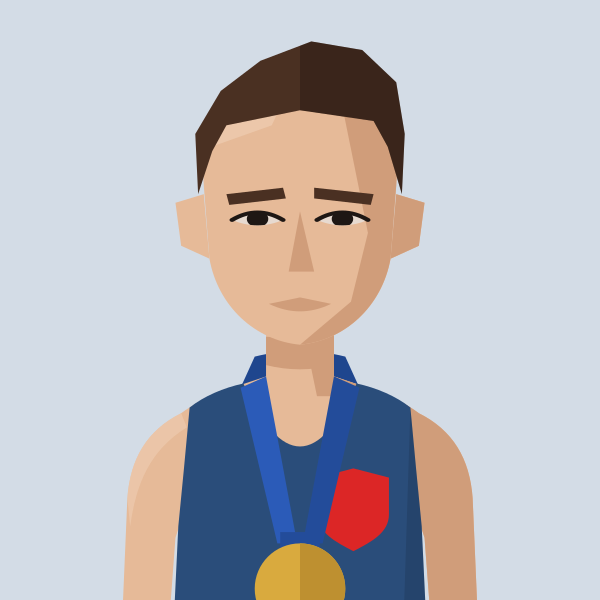
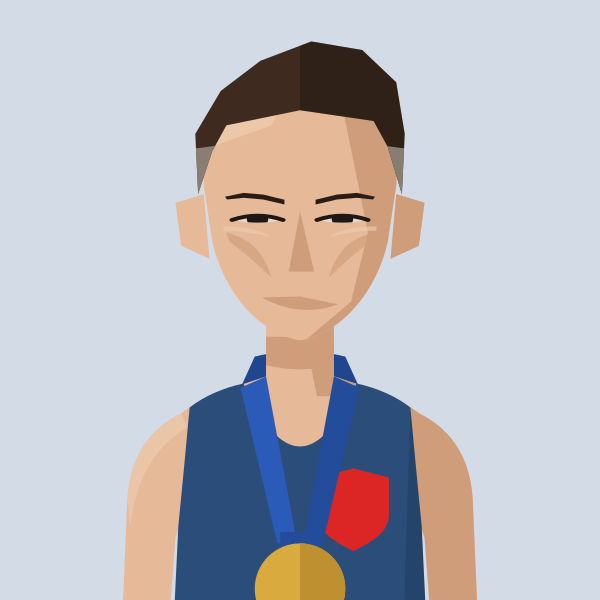
Portrait: Alex Yee redrawn (faded quiff, cheekbones, thin arched brows, lopsided smile, medal kept)
Claude-Session: https://claude.ai/code/session_01MgmDWhFqnSSnP4iBLKXUZC

diff --git a/files/index.html b/files/index.html
@@ -757,7 +757,7 @@ const portraitFile=(name,club)=>{const k=normalizeNameForCompare(name||'').repla
 const portraitClubOf=(name,clubs)=>{for(const c of clubs||[]){if(c&&portraitFile(name,c))return c;}return null;}; /* first of these clubs we have a portrait for */
 // Athlete header figure: superstar portrait if we have one, else a grey runner in the club vest, else the plain vest icon
 // Changes whenever any portrait changes (set by tools/build_og.py), so browsers fetch fresh images instead of old cached ones
-const PORTRAIT_V='5461c4f5';const PORTRAIT_WOMEN='abbey-brooke,abbie-bulbulian,adele-prince,aimee-hargreaves,aisling-ahern,alex-brown,alex-gandee,alex-marginean,alex-miller,alexa-parker,alexandra-barbour,alice-braham,alice-bridger-morales,alice-crane,alice-martin,alice-reed,alice-smith,alison-purnell,alison-thomson,amelia-pettitt,amy-clements,andrea-barber,anika-schwarze-chintapatla,anna-garnier,anna-garnier-hw,anna-sharp,annabel-hobday,annabelle-hadlow,anne-hegvold,annmarie-seymour,ava-mcandie,becky-briggs,bethan-goddard,bethanie-murray,bethany-brown,betsy-griffiths,billie-mcclosky,camilla-barden,caoimhe-nic-fhogartaigh,carolyne-baxter,catherine-bryson,catherine-eastham,catherine-kandie,cathy-ansell,charlotte-griffiths,chloe-beckett,chloe-tighe,chrissie-wellington,claire-grima,clara-pettit,clare-elms,clare-pauzers,dillan-quinn,dorchie-cockerell,eilidh-hide,elinor-skinner,eliza-grant,elizabeth-apsley,elizabeth-stavreski,ella-fennelly,ella-king-powrie,ella-may-hards,ella-newton,ellen-weir,ellie-brown,ellie-freeden,eloise-bull,emilie-arnoux,emily-barrett,emily-bradley,emily-lowery,emily-robbins,emma-gordon,emma-howsham,emma-lord,emma-rowland,estle-viljoen,evie-warren,felicity-cole,felicity-harrison,felicity-hayward,fi-maddocks,fiona-de-mauny,florence-wiggins,gabby-collison,gabriel-reynolds,gemma-newport,genevieve-blanch,georgia-curry,georgie-bruinvels,georgie-fenn,georgie-furze,georgie-grgec,gina-galbraith,grace-leyland,grace-richardson,hannah-edwards,hannah-english,heather-statham,heather-statham-cc,helena-corbin,helena-keenan,holly-nixon,holly-pan,imogen-mackie,imogen-wolsey,iona-cousland,isabel-bradley,isabel-brinsden,isabelle-pickett,isobel-hodder,jennifer-nandi,jennifer-smith,jess-reed,jess-saunders,jess-winfield,jessica-davies,jessica-lowe,jodie-favell,josephine-rhodes,julia-bleasdale,julia-wedmore,juliet-hodder,jurgita-levertaviciute,justine-lynch,karen-fenner,karen-xiang,karina-box,kate-axford,kate-williams,kathy-sharpe,katie-ellen-french,katie-good,katie-snowden,katy-hedgethorne,kitty-shepherd-cross,kristina-popadich,lara-bromilow,lara-mangan,laura-goodson,laura-miles,lauren-major,lea-adamson,lily-newton,lisa-bailey,lisa-thomas,lisa-thomas-hw,lizzie-goldie-scot,louise-cooper,lucy-jones,lucy-macalister,lucy-peters,lydia-blackmore,lydia-gallyer-barnett,maddie-mastrolonardo,maddy-whitman,maeve-kenny,margaret-coogan,martina-conner,mary-james,mary-setyabule,matilde-lomba,megan-gildea,mel-wilkins,mhairi-hall,mimi-corden-lloyd,molly-oconnor,molly-smith,monika-gajek,naomi-lenane,natalie-beadle,natalie-seymour,natasha-lodge,niamh-thompson,nicky-hayes,nicola-cartlidge,nicola-douglas,nikki-sturzaker,olivia-papaioannou,olivia-stillman,orna-mcginley,pamela-mchutchon,patricia-walker,patrizia-gnoato,penny-oliver,rachel-brown,rebecca-barrow,rebekah-edgar,ruby-carter,ruby-whyte-wilding,ruby-woolfe,sally-urquhart,sam-whiting,samantha-munday,sarah-astin,sarah-dewhirst,sarah-grover,sarah-hanley,sarah-holt,sarah-murphy,sarah-palmer,sarah-palmer-ran,sarah-riceman,sarah-young,saron-haileselase,serena-carter,sophie-cowper,sophie-harris,sophie-hicks,sophie-tooley,stacey-ward,steph-hewitt,steph-mccall,steph-mccall-cc,steph-mccall-slh,steph-mitchell,suzanne-swaine,suze-spalding,suzie-harvey,suzy-whatmough,teresa-murphy,tilly-heaton,tilly-heaton-bel,tish-jones,vic-cartwright,vicky-clarke,victoria-barthelmess,victoria-buck,vikki-filsell,zoe-doyle,zoe-macdonald,zuzana-nemeckova';const PORTRAIT_MEN='aaron-wilson,abdulla-elsadig,adam-leane,adrian-major,adrien-royer,alan-black,alan-mead,alex-brecker,alex-bruce-littlewood,alex-gutteridge,alex-harris,alex-howard,alex-janiaud,alex-lee,alex-lennon,alex-mills,alex-milne,alex-morales,alex-robinson,alex-yee,alexander-marks,amittai-ben-israel,andrew-cumine,andrew-green,andrew-penney,andrew-perfect,andrew-simms,andrew-warburton,andrius-jaksevicius,andy-coley-maud,andy-coley-maud-cc,andy-fyfe,andy-north,andy-paton,andy-weir,angus-butler,angus-lamb,anisse-ismaili,arlo-ludewick,arne-dumez,arthur-peel,ashley-goncalves,barnaby-day,barry-collins,barry-sawyer,ben-clarke,ben-harding,ben-hurley,ben-ireland,ben-millar,ben-paviour,ben-pearce,ben-racle,ben-revill,ben-reynolds,ben-scott,ben-toomer,benedict-whitby,benjamin-hilson,bernie-ford,bill-kerr,bill-weller,bill-weller-wal,bob-harrison,bob-holt,bob-lunnon,bob-rayman,bob-smith,bradley-courtney-pinn,brandon-dewar,brian-gorman,brian-wilder,caleb-hathaway,callum-stewart,cameron-dockerill,cameron-reilly,carl-delaney,charles-herrington,charlie-dabbs,charlie-dickinson,charlie-eastaugh,charlie-manning,charlie-pickett,charlie-rogers,charlie-sandison,charlie-walker,charlie-wyllie,che-compton,chris-busaileh,chris-busaileh-hhh,chris-greenwood,chris-keavey,chris-moss,chris-steer,chris-threadgold,chris-warren,christian-lee,christopher-parker,clive-gilby,clive-shippen,colin-high,colin-pearson,conall-mcnally,conall-whelan,craig-ruddy,dame-dibaba,dan-cliffe,dan-pettitt,daniel-shaw,daniel-wolff,dave-beard,dave-beaver,dave-glassborow,dave-holt,dave-taylor,david-anderson,david-bowers,david-grima,david-north,david-ogden,david-symons,david-walsh,david-williams,deron-fagan,dick-piotrowski,dimos-evangelidis,dominic-kiralyfi,don-anderson,don-faircloth,don-maclean,doug-maughan,duncan-rimmer,dylan-evans,dylan-mitchard,ed-brewer,ed-catmur,ed-gibson,ed-mallett,eddie-herridge,eddie-jodrell,eddie-rolls,edward-chuck,eoin-brady,eoin-molloy,ethan-mccolgan,falilou-kebe,findlay-dyer,finn-johnson,fintan-pearce,frank-tickner,frank-ward,fred-paget,fred-slemeck,freddie-hessian,garret-lee,gary-ribbons,gary-ribbons-ee,gary-staines,gavin-eccles,geoff-biscoe,geoff-jerwood,geoff-north,george-cotton,george-gathercole,george-jackson,george-loxton,george-mallett,george-ogden,gerry-adams,gerry-north,glen-keegan,gordon-pearce,graham-macky,harrison-hayman,harry-guttridge,hector-revill,henry-hart,henry-silverstein,hugo-hewitt,huw-lobb,ian-acreman,ian-crowe-wright,ian-ellwood,ian-harkness,indy-barnes,isaac-lutaya,isaac-parker,jack-brotchie,jack-dickson,jack-dormer,jack-hampshire,jack-harrison,jack-hobden,jack-kavanagh,jack-millar,jack-ramm,jack-woods,jacob-brockmann,jake-simmonds,james-bartram,james-blackwood,james-bowler,james-estall,james-ewing,james-fox,james-hancock,james-harvey,james-hoad,james-kelly,james-mcmullan,james-murray,james-nutt,james-preston,james-roberts,james-stockings,james-ward,james-wootton,jamie-crowe,jamie-parkinson,jared-martin,jean-paul-wright,jeff-cunningham,jeremy-dempsey,jermaine-mays,jerry-watson,jim-allchin,jim-rimmer,joe-english,joe-hartley,john-baker,john-bicourt,john-bromley,john-davies,john-dear,john-foss,john-foxall,john-gilbert,john-gladwin,john-hutchins,john-kendall,john-kimaiyo,john-lee,john-lethbridge,john-mather,john-moore,john-roberts,john-sanderson,john-stow,john-sullivan,john-thresher,jon-hobbs,jon-pepper,jon-pepper-slh,jon-phillips,jon-solly,jonathan-cocker,jonathan-collier,jonathan-cornish,jonathan-ratcliffe,jonathan-tipper,jonathon-blackledge,jonny-neville,jonny-scott,jordan-weaver,josh-mitchell,josh-snow,josh-trigwell,jules-gevers,junior-galley,justin-chaston,justin-reid,kassa-tadesse,keith-newton,kevin-nash,kevin-quinn,kevin-sturman,kieran-barnes,kieran-white,knut-hegvold,knut-hegvold-bel,larry-ryan,lawrence-avery,lee-lintern,lewis-lloyd,liam-burthem,lionel-mann,lloyd-kempson,luke-caldwell,mack-downie,malachi-byansi,marcello-bizio,marcelo-fortes,marco-mazzotta,mark-anderson,mark-miles,mark-sinclair,mark-tennyson,mark-waller,martin-dent,martin-lake,martin-lewington,martin-shore,mathew-speed,matt-chaston,matt-jones,matt-wood,matthew-edgar,matthew-houchell,matthew-thomas,matthew-varley,max-bloor,max-heyden,max-milarvie,max-nicholls,michael-baker,michael-mccarthy,mick-woods,mike-beevor,mike-boyle,mike-cummings,mike-farmery,mike-fuller,mike-hayes,mike-kortenray,mike-nouch,mohammed-ismail,monty-hudson,morgan-roberts,nathan-visick,neil-chisholm,neil-phillips,neil-speaight,neil-wilson,nic-lukies,nick-acfield,nick-altmann,nick-bester,nick-bester-hhh,nick-buckle,nick-bundle,nick-goolab,nick-lightfoot,nick-morris,nick-torry,noah-fernandez,norman-stairs,oli-carrington,oliver-carrington,oliver-fox,oliver-reynolds,oliver-young,ollie-foote,ollie-garrod,olly-buck,owen-hind,paddy-roddy,pancho-panchev,paskar-owor,pat-newell,patrick-mcdougall,paul-calver,paul-cheetham,paul-freary,paul-magner,paul-pollock,paul-sanderson,paul-sanderson-wok,pete-carton,pete-gardner,peter-clarke,peter-giles,peter-giles-thh,peter-lighting,phil-carstairs,phil-sanders,phil-sesemann,phil-swinburn,phil-wicks,phil-woodford-smith,raj-paranandi,ralph-street,ranjit-bhatia,ray-foley,reece-edwards,rhys-boorman,rian-mccawley,richard-ashe,richard-giles,richard-henderson,richard-langley,richard-mcdowell,richard-ollington,richard-partridge,richard-sun,richard-ward,rob-armstrong,rob-kelly,rob-tuer,robert-elphick,robert-laing,robert-norville,robert-peacock,robert-sesemann,robin-boon,robin-hudson,roger-alsop,roger-alsop-bel,ron-clark,ron-linstead,ronan-tanguy,rory-mcmahon,rory-orsborn,ross-braden,ross-christie,rowan-board,rowan-crichton,russell-dessaix-chin,ryan-hickey,ryan-mccallister,sam-bramwell,sam-charlton,sam-gebreselassie,sam-haughian,sam-peters,sam-sommerville,sam-tyas,samuel-dames,samuel-wilcock,sean-cordon,sebastian-anthony,simon-baines,simon-coombes,simon-coppard,simon-holmes,simon-rayner,simon-rayner-hw,simon-wade,simon-wade-hhh,simon-waterhouse,simon-williams,simon-wurr,sonny-nicoll,spencer-barden,stephen-mcleod,stephen-sharp,steve-gardner,steve-jones,steve-smythe,steve-smythe-hhh,stuart-beaney,stuart-major,stuart-major-thh,stuart-mccallum,stuart-paton,terry-booth,thomas-dugre,thomas-gandee,thomas-gardner,thomas-renshaw,tim-alexander,tim-eglen,tim-lawrence,tim-watson,toby-cooke,toby-fletcher,tom-austin,tom-cheetham,tom-conlon,tom-davies,tom-gifford,tom-jervis,tom-lole,tom-south,tom-thornley,tommy-taylor,tony-binda,tony-fairclough,tony-harran,trevor-hart,valdis-pauzers,valentin-rigori,vic-maughan,wayne-oxborough,will-cockerell,will-lewis,will-marshall,will-scott,will-stockley,william-gardner,yacin-yusuf,zach-nolan';
+const PORTRAIT_V='00fd2f76';const PORTRAIT_WOMEN='abbey-brooke,abbie-bulbulian,adele-prince,aimee-hargreaves,aisling-ahern,alex-brown,alex-gandee,alex-marginean,alex-miller,alexa-parker,alexandra-barbour,alice-braham,alice-bridger-morales,alice-crane,alice-martin,alice-reed,alice-smith,alison-purnell,alison-thomson,amelia-pettitt,amy-clements,andrea-barber,anika-schwarze-chintapatla,anna-garnier,anna-garnier-hw,anna-sharp,annabel-hobday,annabelle-hadlow,anne-hegvold,annmarie-seymour,ava-mcandie,becky-briggs,bethan-goddard,bethanie-murray,bethany-brown,betsy-griffiths,billie-mcclosky,camilla-barden,caoimhe-nic-fhogartaigh,carolyne-baxter,catherine-bryson,catherine-eastham,catherine-kandie,cathy-ansell,charlotte-griffiths,chloe-beckett,chloe-tighe,chrissie-wellington,claire-grima,clara-pettit,clare-elms,clare-pauzers,dillan-quinn,dorchie-cockerell,eilidh-hide,elinor-skinner,eliza-grant,elizabeth-apsley,elizabeth-stavreski,ella-fennelly,ella-king-powrie,ella-may-hards,ella-newton,ellen-weir,ellie-brown,ellie-freeden,eloise-bull,emilie-arnoux,emily-barrett,emily-bradley,emily-lowery,emily-robbins,emma-gordon,emma-howsham,emma-lord,emma-rowland,estle-viljoen,evie-warren,felicity-cole,felicity-harrison,felicity-hayward,fi-maddocks,fiona-de-mauny,florence-wiggins,gabby-collison,gabriel-reynolds,gemma-newport,genevieve-blanch,georgia-curry,georgie-bruinvels,georgie-fenn,georgie-furze,georgie-grgec,gina-galbraith,grace-leyland,grace-richardson,hannah-edwards,hannah-english,heather-statham,heather-statham-cc,helena-corbin,helena-keenan,holly-nixon,holly-pan,imogen-mackie,imogen-wolsey,iona-cousland,isabel-bradley,isabel-brinsden,isabelle-pickett,isobel-hodder,jennifer-nandi,jennifer-smith,jess-reed,jess-saunders,jess-winfield,jessica-davies,jessica-lowe,jodie-favell,josephine-rhodes,julia-bleasdale,julia-wedmore,juliet-hodder,jurgita-levertaviciute,justine-lynch,karen-fenner,karen-xiang,karina-box,kate-axford,kate-williams,kathy-sharpe,katie-ellen-french,katie-good,katie-snowden,katy-hedgethorne,kitty-shepherd-cross,kristina-popadich,lara-bromilow,lara-mangan,laura-goodson,laura-miles,lauren-major,lea-adamson,lily-newton,lisa-bailey,lisa-thomas,lisa-thomas-hw,lizzie-goldie-scot,louise-cooper,lucy-jones,lucy-macalister,lucy-peters,lydia-blackmore,lydia-gallyer-barnett,maddie-mastrolonardo,maddy-whitman,maeve-kenny,margaret-coogan,martina-conner,mary-james,mary-setyabule,matilde-lomba,megan-gildea,mel-wilkins,mhairi-hall,mimi-corden-lloyd,molly-oconnor,molly-smith,monika-gajek,naomi-lenane,natalie-beadle,natalie-seymour,natasha-lodge,niamh-thompson,nicky-hayes,nicola-cartlidge,nicola-douglas,nikki-sturzaker,olivia-papaioannou,olivia-stillman,orna-mcginley,pamela-mchutchon,patricia-walker,patrizia-gnoato,penny-oliver,rachel-brown,rebecca-barrow,rebekah-edgar,ruby-carter,ruby-whyte-wilding,ruby-woolfe,sally-urquhart,sam-whiting,samantha-munday,sarah-astin,sarah-dewhirst,sarah-grover,sarah-hanley,sarah-holt,sarah-murphy,sarah-palmer,sarah-palmer-ran,sarah-riceman,sarah-young,saron-haileselase,serena-carter,sophie-cowper,sophie-harris,sophie-hicks,sophie-tooley,stacey-ward,steph-hewitt,steph-mccall,steph-mccall-cc,steph-mccall-slh,steph-mitchell,suzanne-swaine,suze-spalding,suzie-harvey,suzy-whatmough,teresa-murphy,tilly-heaton,tilly-heaton-bel,tish-jones,vic-cartwright,vicky-clarke,victoria-barthelmess,victoria-buck,vikki-filsell,zoe-doyle,zoe-macdonald,zuzana-nemeckova';const PORTRAIT_MEN='aaron-wilson,abdulla-elsadig,adam-leane,adrian-major,adrien-royer,alan-black,alan-mead,alex-brecker,alex-bruce-littlewood,alex-gutteridge,alex-harris,alex-howard,alex-janiaud,alex-lee,alex-lennon,alex-mills,alex-milne,alex-morales,alex-robinson,alex-yee,alexander-marks,amittai-ben-israel,andrew-cumine,andrew-green,andrew-penney,andrew-perfect,andrew-simms,andrew-warburton,andrius-jaksevicius,andy-coley-maud,andy-coley-maud-cc,andy-fyfe,andy-north,andy-paton,andy-weir,angus-butler,angus-lamb,anisse-ismaili,arlo-ludewick,arne-dumez,arthur-peel,ashley-goncalves,barnaby-day,barry-collins,barry-sawyer,ben-clarke,ben-harding,ben-hurley,ben-ireland,ben-millar,ben-paviour,ben-pearce,ben-racle,ben-revill,ben-reynolds,ben-scott,ben-toomer,benedict-whitby,benjamin-hilson,bernie-ford,bill-kerr,bill-weller,bill-weller-wal,bob-harrison,bob-holt,bob-lunnon,bob-rayman,bob-smith,bradley-courtney-pinn,brandon-dewar,brian-gorman,brian-wilder,caleb-hathaway,callum-stewart,cameron-dockerill,cameron-reilly,carl-delaney,charles-herrington,charlie-dabbs,charlie-dickinson,charlie-eastaugh,charlie-manning,charlie-pickett,charlie-rogers,charlie-sandison,charlie-walker,charlie-wyllie,che-compton,chris-busaileh,chris-busaileh-hhh,chris-greenwood,chris-keavey,chris-moss,chris-steer,chris-threadgold,chris-warren,christian-lee,christopher-parker,clive-gilby,clive-shippen,colin-high,colin-pearson,conall-mcnally,conall-whelan,craig-ruddy,dame-dibaba,dan-cliffe,dan-pettitt,daniel-shaw,daniel-wolff,dave-beard,dave-beaver,dave-glassborow,dave-holt,dave-taylor,david-anderson,david-bowers,david-grima,david-north,david-ogden,david-symons,david-walsh,david-williams,deron-fagan,dick-piotrowski,dimos-evangelidis,dominic-kiralyfi,don-anderson,don-faircloth,don-maclean,doug-maughan,duncan-rimmer,dylan-evans,dylan-mitchard,ed-brewer,ed-catmur,ed-gibson,ed-mallett,eddie-herridge,eddie-jodrell,eddie-rolls,edward-chuck,eoin-brady,eoin-molloy,ethan-mccolgan,falilou-kebe,findlay-dyer,finn-johnson,fintan-pearce,frank-tickner,frank-ward,fred-paget,fred-slemeck,freddie-hessian,garret-lee,gary-ribbons,gary-ribbons-ee,gary-staines,gavin-eccles,geoff-biscoe,geoff-jerwood,geoff-north,george-cotton,george-gathercole,george-jackson,george-loxton,george-mallett,george-ogden,gerry-adams,gerry-north,glen-keegan,gordon-pearce,graham-macky,harrison-hayman,harry-guttridge,hector-revill,henry-hart,henry-silverstein,hugo-hewitt,huw-lobb,ian-acreman,ian-crowe-wright,ian-ellwood,ian-harkness,indy-barnes,isaac-lutaya,isaac-parker,jack-brotchie,jack-dickson,jack-dormer,jack-hampshire,jack-harrison,jack-hobden,jack-kavanagh,jack-millar,jack-ramm,jack-woods,jacob-brockmann,jake-simmonds,james-bartram,james-blackwood,james-bowler,james-estall,james-ewing,james-fox,james-hancock,james-harvey,james-hoad,james-kelly,james-mcmullan,james-murray,james-nutt,james-preston,james-roberts,james-stockings,james-ward,james-wootton,jamie-crowe,jamie-parkinson,jared-martin,jean-paul-wright,jeff-cunningham,jeremy-dempsey,jermaine-mays,jerry-watson,jim-allchin,jim-rimmer,joe-english,joe-hartley,john-baker,john-bicourt,john-bromley,john-davies,john-dear,john-foss,john-foxall,john-gilbert,john-gladwin,john-hutchins,john-kendall,john-kimaiyo,john-lee,john-lethbridge,john-mather,john-moore,john-roberts,john-sanderson,john-stow,john-sullivan,john-thresher,jon-hobbs,jon-pepper,jon-pepper-slh,jon-phillips,jon-solly,jonathan-cocker,jonathan-collier,jonathan-cornish,jonathan-ratcliffe,jonathan-tipper,jonathon-blackledge,jonny-neville,jonny-scott,jordan-weaver,josh-mitchell,josh-snow,josh-trigwell,jules-gevers,junior-galley,justin-chaston,justin-reid,kassa-tadesse,keith-newton,kevin-nash,kevin-quinn,kevin-sturman,kieran-barnes,kieran-white,knut-hegvold,knut-hegvold-bel,larry-ryan,lawrence-avery,lee-lintern,lewis-lloyd,liam-burthem,lionel-mann,lloyd-kempson,luke-caldwell,mack-downie,malachi-byansi,marcello-bizio,marcelo-fortes,marco-mazzotta,mark-anderson,mark-miles,mark-sinclair,mark-tennyson,mark-waller,martin-dent,martin-lake,martin-lewington,martin-shore,mathew-speed,matt-chaston,matt-jones,matt-wood,matthew-edgar,matthew-houchell,matthew-thomas,matthew-varley,max-bloor,max-heyden,max-milarvie,max-nicholls,michael-baker,michael-mccarthy,mick-woods,mike-beevor,mike-boyle,mike-cummings,mike-farmery,mike-fuller,mike-hayes,mike-kortenray,mike-nouch,mohammed-ismail,monty-hudson,morgan-roberts,nathan-visick,neil-chisholm,neil-phillips,neil-speaight,neil-wilson,nic-lukies,nick-acfield,nick-altmann,nick-bester,nick-bester-hhh,nick-buckle,nick-bundle,nick-goolab,nick-lightfoot,nick-morris,nick-torry,noah-fernandez,norman-stairs,oli-carrington,oliver-carrington,oliver-fox,oliver-reynolds,oliver-young,ollie-foote,ollie-garrod,olly-buck,owen-hind,paddy-roddy,pancho-panchev,paskar-owor,pat-newell,patrick-mcdougall,paul-calver,paul-cheetham,paul-freary,paul-magner,paul-pollock,paul-sanderson,paul-sanderson-wok,pete-carton,pete-gardner,peter-clarke,peter-giles,peter-giles-thh,peter-lighting,phil-carstairs,phil-sanders,phil-sesemann,phil-swinburn,phil-wicks,phil-woodford-smith,raj-paranandi,ralph-street,ranjit-bhatia,ray-foley,reece-edwards,rhys-boorman,rian-mccawley,richard-ashe,richard-giles,richard-henderson,richard-langley,richard-mcdowell,richard-ollington,richard-partridge,richard-sun,richard-ward,rob-armstrong,rob-kelly,rob-tuer,robert-elphick,robert-laing,robert-norville,robert-peacock,robert-sesemann,robin-boon,robin-hudson,roger-alsop,roger-alsop-bel,ron-clark,ron-linstead,ronan-tanguy,rory-mcmahon,rory-orsborn,ross-braden,ross-christie,rowan-board,rowan-crichton,russell-dessaix-chin,ryan-hickey,ryan-mccallister,sam-bramwell,sam-charlton,sam-gebreselassie,sam-haughian,sam-peters,sam-sommerville,sam-tyas,samuel-dames,samuel-wilcock,sean-cordon,sebastian-anthony,simon-baines,simon-coombes,simon-coppard,simon-holmes,simon-rayner,simon-rayner-hw,simon-wade,simon-wade-hhh,simon-waterhouse,simon-williams,simon-wurr,sonny-nicoll,spencer-barden,stephen-mcleod,stephen-sharp,steve-gardner,steve-jones,steve-smythe,steve-smythe-hhh,stuart-beaney,stuart-major,stuart-major-thh,stuart-mccallum,stuart-paton,terry-booth,thomas-dugre,thomas-gandee,thomas-gardner,thomas-renshaw,tim-alexander,tim-eglen,tim-lawrence,tim-watson,toby-cooke,toby-fletcher,tom-austin,tom-cheetham,tom-conlon,tom-davies,tom-gifford,tom-jervis,tom-lole,tom-south,tom-thornley,tommy-taylor,tony-binda,tony-fairclough,tony-harran,trevor-hart,valdis-pauzers,valentin-rigori,vic-maughan,wayne-oxborough,will-cockerell,will-lewis,will-marshall,will-scott,will-stockley,william-gardner,yacin-yusuf,zach-nolan';
 // Runners whose dog pops up on their own profile page (a -dog.svg version of their portrait)
 const PROFILE_DOGS=new Set(['john-sanderson','penny-oliver','james-hancock','angus-butler']);
 const AthletePortrait=({name,club,w,fill,onClick,blink})=>{const[failed,setFailed]=useState(false);const file=portraitFile(name,club);const src0=file?`/portraits/athletes/${file}.svg?v=${PORTRAIT_V}`:PORTRAIT_CLUBS.has(club)?`/portraits/clubs/${club.replace(/\//g,'').replace(/&/g,'and')}.svg?v=${PORTRAIT_V}`:null;const blinkSrc=useBlinkSrc(file?(PROFILE_DOGS.has(file)?`/portraits/athletes/${file}-dog.svg?v=${PORTRAIT_V}`:src0):null,!!blink);const src=blinkSrc||src0;if(!src||failed)return<div onClick={onClick} className={onClick?'cursor-pointer':''}><ClubShield club={club} size={w}/></div>;const h=Math.round(w*148/126),ih=Math.round(w*1.4);if(fill)return<div onClick={onClick} className="cursor-pointer" style={{alignSelf:'stretch',minHeight:h,aspectRatio:'126 / 148',flexShrink:0,position:'relative',borderRadius:4,overflow:'hidden'}}><img src={src} alt={file?`Portrait of ${name.replace(/\s*\([^)]*\)$/,'')}`:`Runner in ${CLUBS[club]?.name||club} vest`} style={{position:'absolute',top:0,left:0,display:'block',width:'100%',height:'auto'}} onError={()=>setFailed(true)}/></div>;return<div style={{width:w,height:h,borderRadius:4,overflow:'hidden',flexShrink:0}}><img src={src} alt={file?`Portrait of ${name.replace(/\s*\([^)]*\)$/,'')}`:`Runner in ${CLUBS[club]?.name||club} vest`} width={w} height={ih} style={{display:'block',width:w,height:ih}} onError={()=>setFailed(true)}/></div>;};

diff --git a/tools/gen_portraits.py b/tools/gen_portraits.py
@@ -667,7 +667,7 @@ save("charlie-eastaugh", figure("H/W", skin=1, hair="crop", hair_colour="light b
 save("oli-carrington", figure("H/W", skin=1, hair="tousled", hair_colour="mid brown", facial="shortbeard", facial_colour="mid brown"))
 save("jonathan-cornish", figure("H/W", skin=1, hair="tousled", hair_colour="#6E5A44"))
 save("gerry-north", figure("BEL", skin=1, hair="quiff", hair_colour="dark brown"))
-save("alex-yee", figure("KEN", skin=2, hair="quiff", hair_colour="#4A3022", medal="gold"))
+# Alex Yee: redrawn Oct 2026, see near the end of the file
 save("phil-wicks", figure("BEL", skin=1, hair="tousled", hair_colour="#5A3E2A", gaunt=True, temples=True))
 save("john-gilbert", figure("KEN", skin=1, hair="fringe", hair_colour="#5C3D28", facial="stubble"))
 save("chris-busaileh", figure("KEN", skin=1, hair="croppeak", hair_colour="#A85A30"))
@@ -1700,4 +1700,20 @@ save("sam-haughian", dimple(brows(eyes(figure("BOH", skin=2, hair="tousled", hai
 # Ross Braden (KEN), Oct 2026: dark brown floppy hair receding at the temples, narrow lean face, flushed,
 # strong dark brows over lightly hooded eyes, clean-shaven
 save("ross-braden", brows(eyes(figure("KEN", skin=1, hair="floppyrecede", hair_colour="#3A2A20", brow_colour="#2E211A", rosy=True, jaw="narrow", gaunt=True), "hooded"), 0, 0, 3))
+# ---- Thin arched brows and a lopsided mouth (Oct 2026, first used for Alex Yee) ----
+def thinarchbrows(svg):
+    """Thin arched brows, set lower at the inner ends than the outer (replaces the brow pair, keeping its height)."""
+    m = _rb.search(r'<g fill="(#[0-9A-Fa-f]{3,6})"><polygon points="[0-9.]+,[0-9.]+ [0-9.]+,([0-9.]+) [^"]+"/><polygon points="[^"]+"/></g>', svg)
+    if not m: return svg
+    dy = float(m.group(2)) - 100
+    L = [(73.5,101.2),(80,99.4),(87,100.2),(94.5,102.6),(94.5,104.8),(87,102.5),(80,101.7),(74.2,102.5)]
+    f = lambda pts: " ".join(f"{x:g},{y+dy:g}" for x, y in pts)
+    return svg[:m.start()] + f'<g fill="{m.group(1)}"><polygon points="{f(L)}"/><polygon points="{f([(200-x, y) for x, y in L])}"/></g>' + svg[m.end():]
+def lopsided(svg, side="left"):
+    """A slightly wider mouth lifted at one corner (left = the viewer's left)."""
+    a = "M86.5,148 L100,147.6 L113.5,151.2 Q100,157.8 86.5,148 Z" if side == "left" else "M86.5,151.2 L100,147.6 L113.5,148 Q100,157.8 86.5,151.2 Z"
+    return svg.replace('<path d="M89,151 L100,148 L111,151 Q100,158 89,151 Z"', f'<path d="{a}"', 1)
+# Alex Yee (KEN, Olympic triathlon champion), redrawn Oct 2026: swept-up dark quiff with faded sides, narrow face with high cheekbones,
+# narrow eyes under thin arched brows that dip at the inner ends, mouth lifted on one side, gold medal
+save("alex-yee", lopsided(thinarchbrows(brows(eyes(figure("KEN", skin=2, hair="quiff", temples=True, hair_colour="#3E2A1F", brow_colour="#2A1D16", medal="gold", jaw="narrow", gaunt=True), "narrow"), 0, 0, 3)), "left"))
 export_site()
